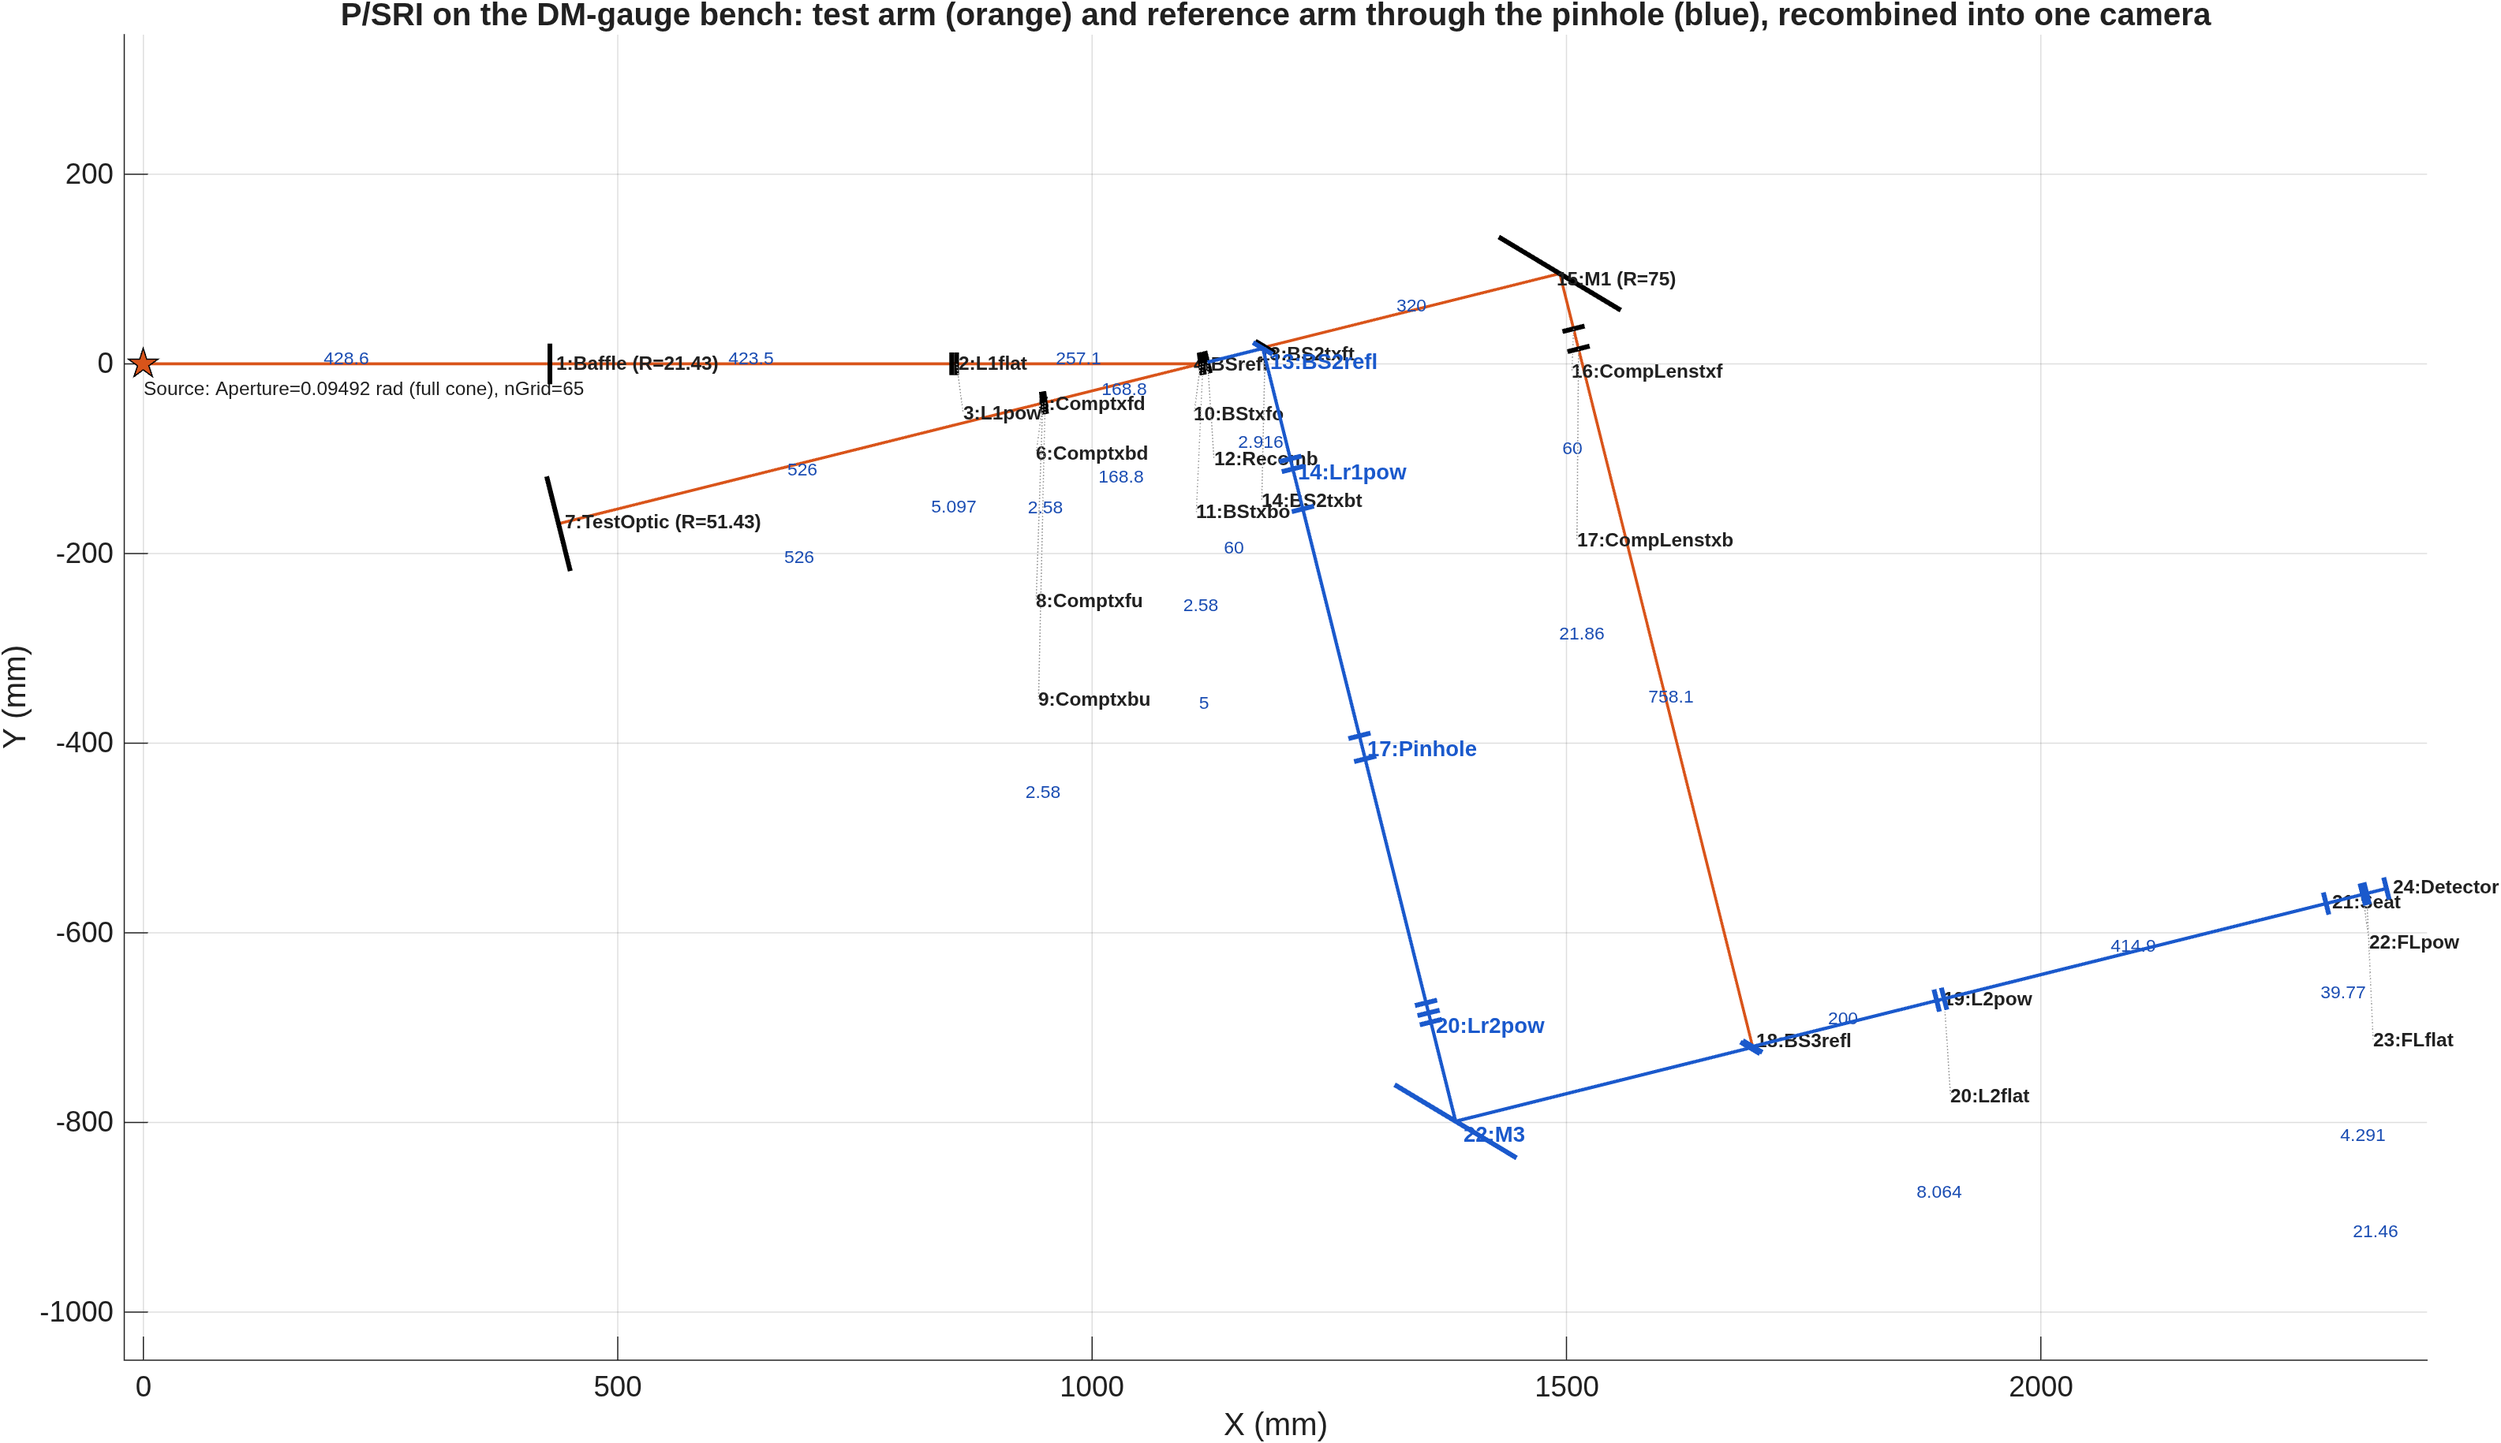
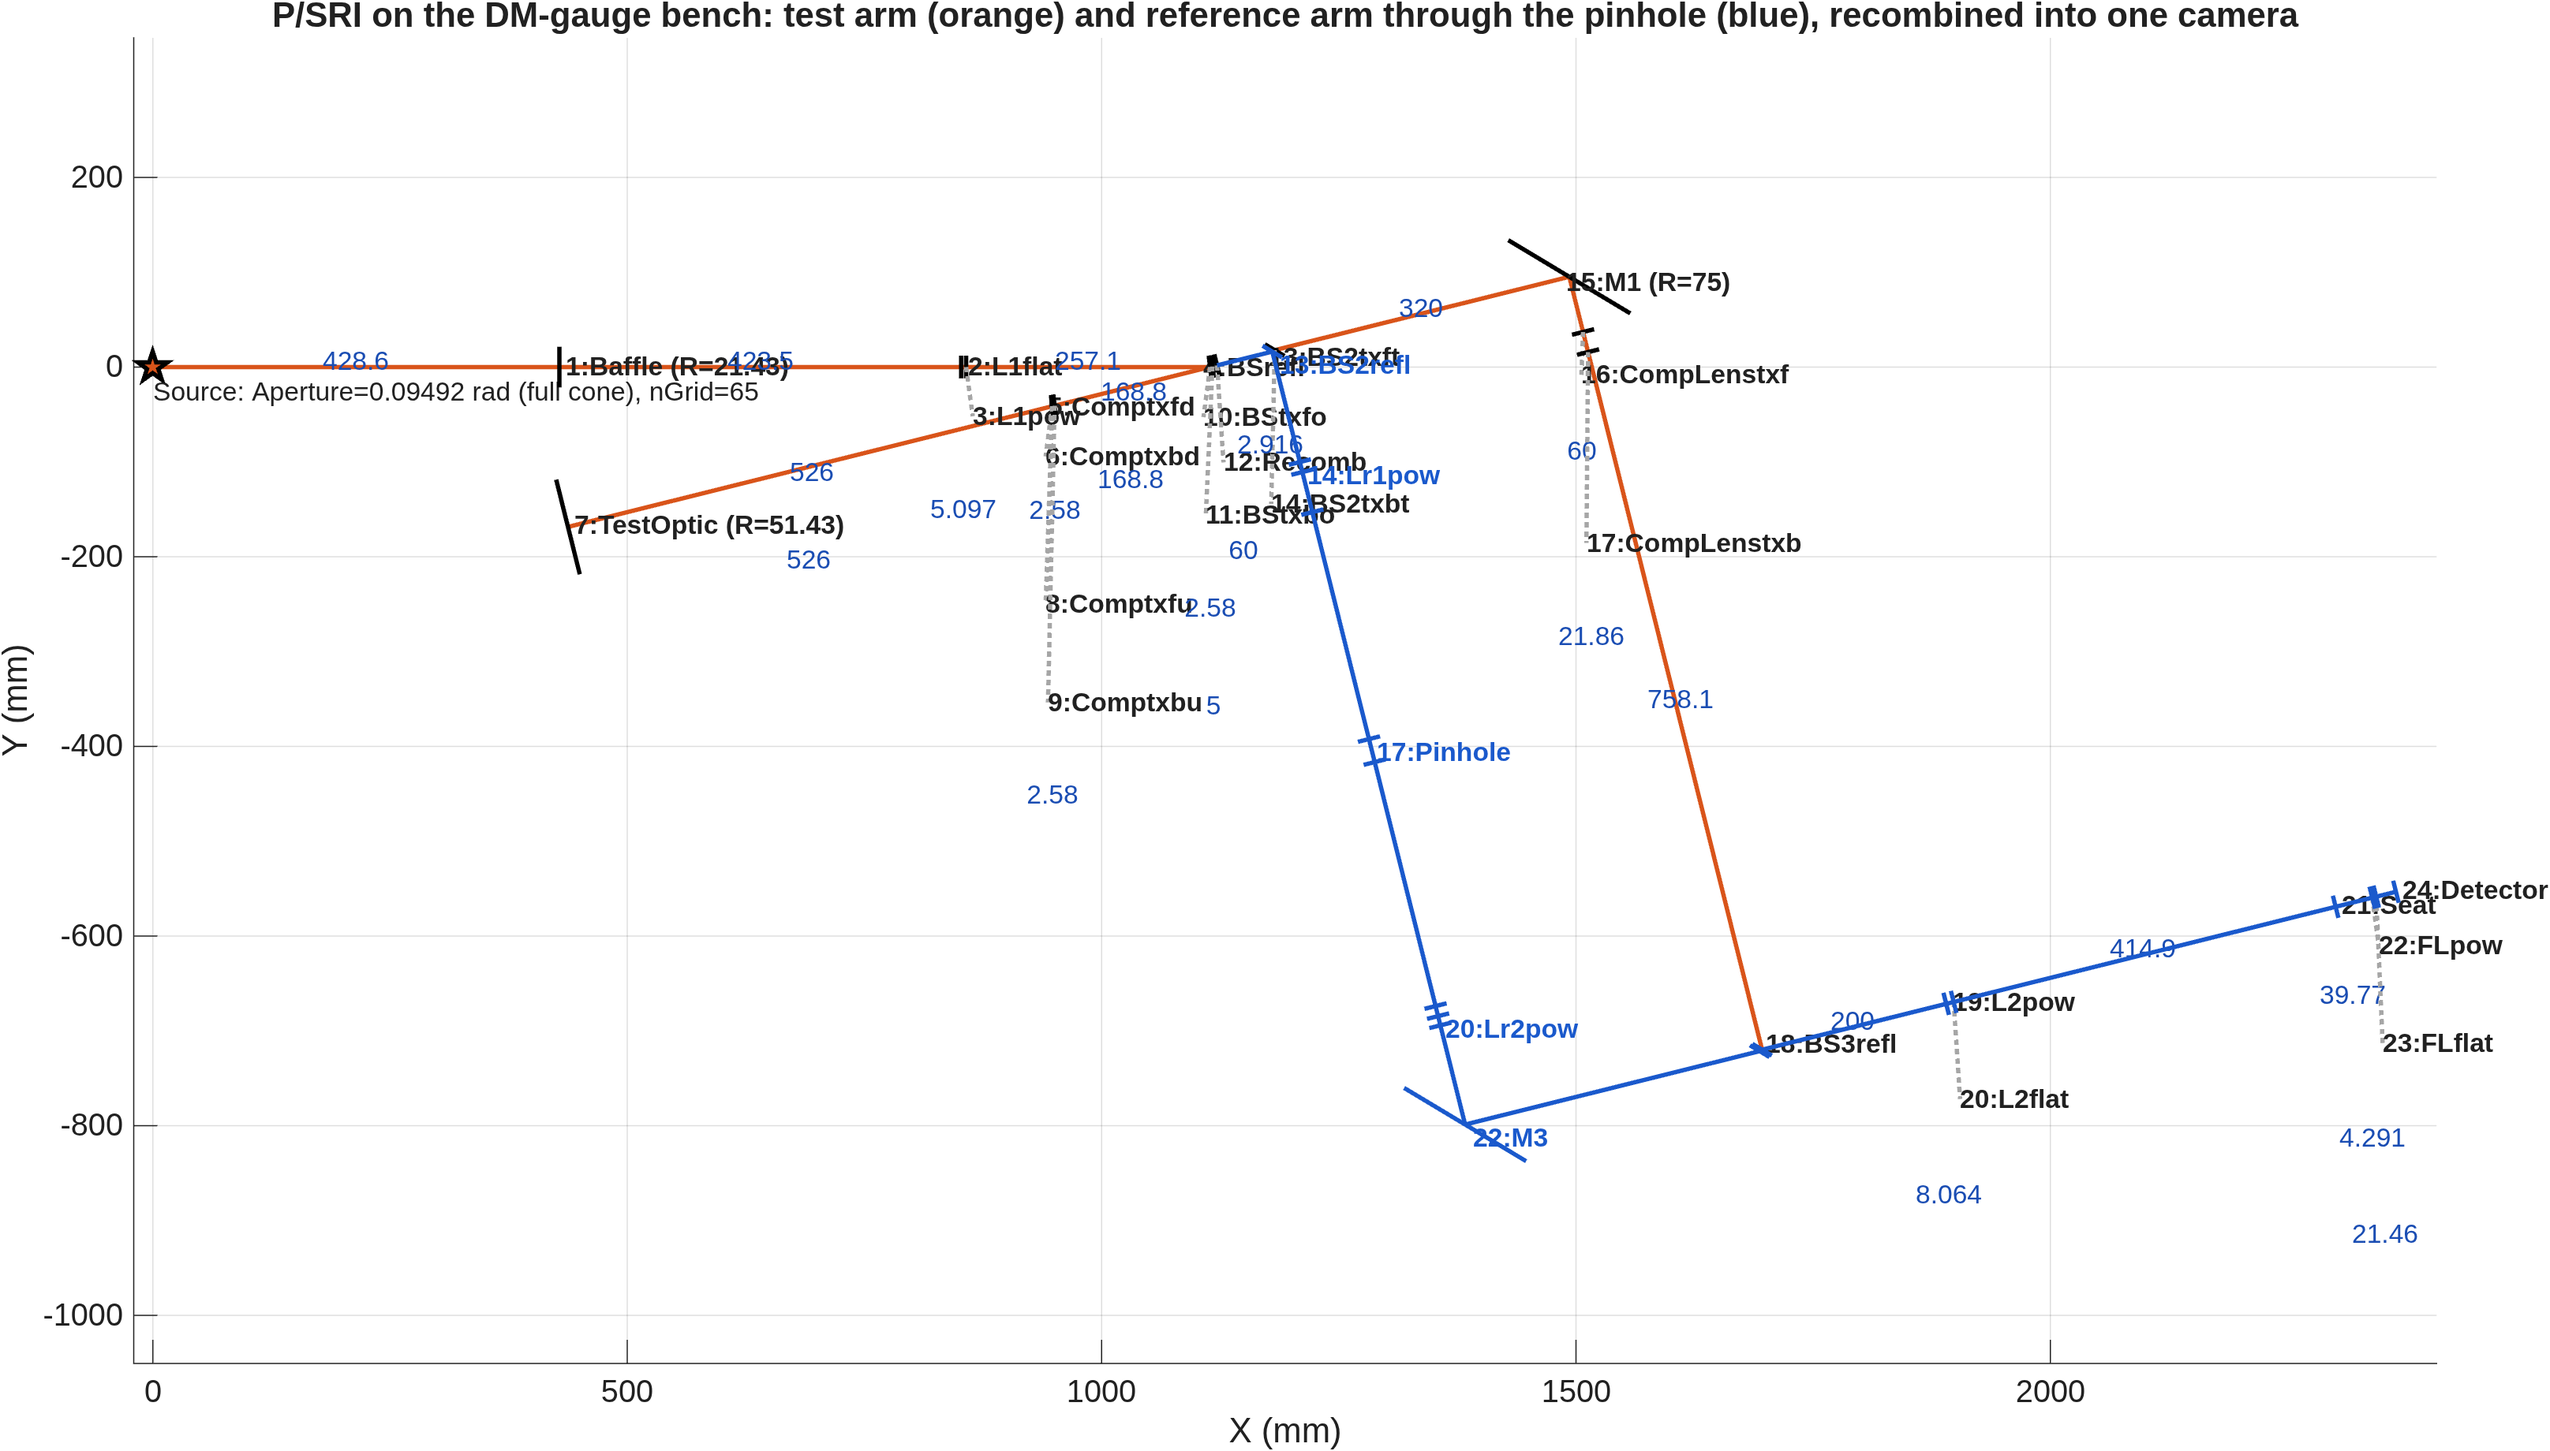
psri_bench: Lr2 = Lr1 mirrored about the pinhole (reversibility gate: recollimated 5.78 vs recombination-plane 5.80 um rms, the front end's residual the pinhole filters); psri_layout_fig prints the three wavefronts, larger sketch labels; README P/SRI bench record
Claude-Session: https://claude.ai/code/session_01RuX6Hc5txP1E9QGjcSo42d

diff --git a/mmacos/templates/40_benches/zwfs_dm96/psri_layout_fig.m b/mmacos/templates/40_benches/zwfs_dm96/psri_layout_fig.m
@@ -79,7 +79,8 @@ for k = k0:numel(br.E)
         text(ax, e.rpt(1) + 8, e.rpt(2) - 14, sprintf('%d:%s', k, e.name), 'FontSize', 9, 'FontWeight', 'bold', 'Color', [0.1 0.35 0.8], 'Interpreter', 'none');
     end
 end
-set(ax, 'FontSize', 12);  axis(ax, 'equal');
+set(findobj(fs, 'Type', 'text'), 'FontSize', 11);  set(findobj(fs, 'Type', 'line'), 'LineWidth', 1.8);
+set(ax, 'FontSize', 13);  axis(ax, 'equal');
 xl = xlim(ax);  yl = ylim(ax);  set(ax, 'XLim', [xl(1)-20 xl(2)+40], 'YLim', [yl(1)-40 yl(2)+40]);
 exportgraphics(fs, 'psri_layout.png', 'Resolution', 220);  close(fs);
 fprintf('wrote psri_layout.png\n');

diff --git a/mmacos/templates/40_benches/zwfs_dm96/README.md b/mmacos/templates/40_benches/zwfs_dm96/README.md
@@ -497,7 +497,32 @@ budget lines before quoting a number.
   six readings, within-scan 0 / 1).  Figure: `<tag>_pdi.png` (the focal
   spot with pinhole, dimple and mode; the reference amplitudes; the
   reference's motion by diameter; the visibility maps).  Deck:
-  `macos/demo_session/deck_pdi.md` (DRAFT).
+  `macos/demo_session/deck_pdi.md` (DRAFT).  *The P/SRI as a BUILDABLE
+  bench (Dave 2026-09-12: "separate but balanced arms, the reference
+  through the pinhole / phase shifter"):* `macos.design.psri_bench` +
+  `psri_layout_fig.m` (`psri_layout.png`, `psri_render.png`,
+  `psri_test.in`, `psri_ref.in`) -- the TG96 front end, then a
+  Mach-Zehnder in the returned chief's frame: BS2 splits; the test arm
+  transmits, folds (M1), carries a normal-incidence glass compensator and
+  reflects off BS3's front face; the reference arm reflects to Lr1 (f
+  300, F/2.9), the pinhole seat in its NF sphere bracket at the true
+  focus (+1.10 mm), Lr2 (Lr1 mirrored about the pinhole), fold M3, and
+  transmits BS3; both exit on ONE chief into the tuned tail.  Solved on
+  construction: the compensator (21.9 mm) for equal chief optical paths
+  (4453.1 mm each), M3 for coincident exit chiefs (2e-13 mm); both decks
+  trace 3210 / 3210 rays to one camera plane (chiefs 2e-12 mm apart,
+  footprints 3.60 / 3.29 mm).  Lr1's conic -0.578 solved on the trace
+  (0.1 um ray blur; the add_lens seed gives 0.31 mm).  Traps recorded:
+  the F/2.9 diffraction focus is ~20 um deep (find the ray focus first);
+  the engine's OPD at a tilted fold reads geometry and at the camera the
+  tail's convergence dominates (measure collimation on a plane normal to
+  the beam); the collimated beam behind the DM carries the front end's
+  5.8 um rms residual (L1), which the tuned tail cancels for the test arm
+  and the pinhole filters for the reference -- so Lr2 must be Lr1's
+  mirror image (reversibility: the recollimated wave reproduces the
+  recombination plane's, 5.78 vs 5.80 um), never "solved" against that
+  residual.  NEXT: the PF reading on the two decks (reference from
+  psri_ref.in through the pinhole) instead of the synthesized reference.
 - **S11 (zwfs_run stage 'loop', 2026-09-11, Dave: "on-orbit the DM
   surface needs to remain constant to << 10 pm, with frequent
   remeasurement and closed-loop DM actuator servo control -- how can
